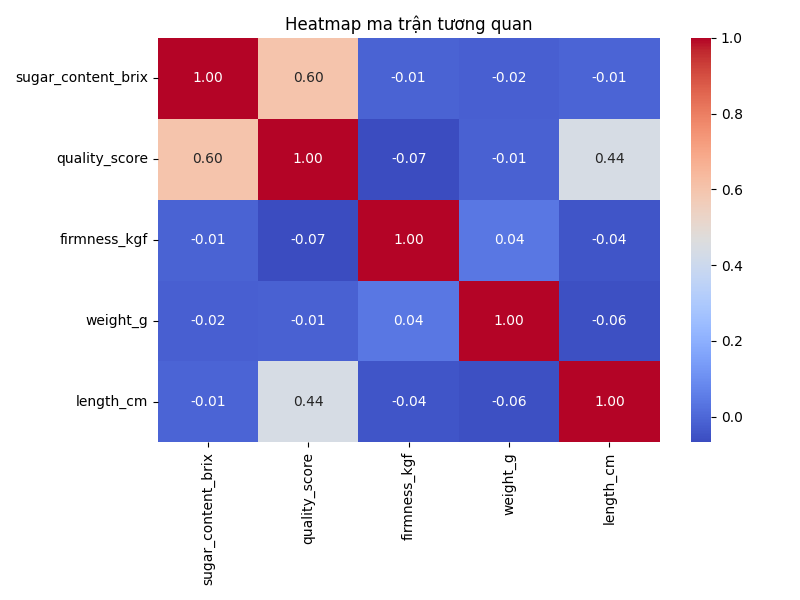
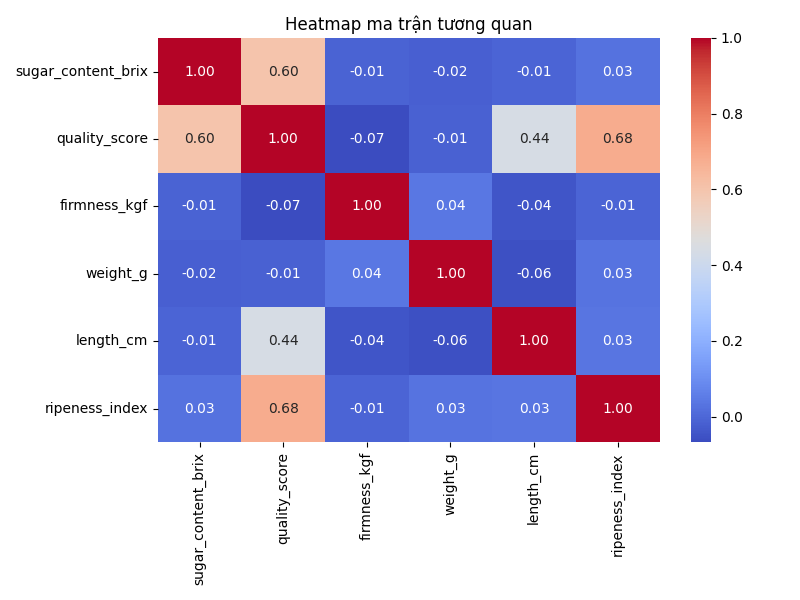
Preserve extended analysis and visualization outputs

diff --git a/src/03_visualization.py b/src/03_visualization.py
@@ -2,31 +2,16 @@ import pandas as pd
 import os
 import matplotlib.pyplot as plt
 import seaborn as sns
-
-# =========================
-# PHẦN 3: TRỰC QUAN HÓA DỮ LIỆU
-# =========================
-
-# Lấy đường dẫn thư mục src
 BASE_DIR = os.path.dirname(os.path.abspath(__file__))
-
-# Đường dẫn file dữ liệu
 DATA_PATH = os.path.join(
     BASE_DIR,
     "..",
     "data",
     "banana_quality_dataset.csv"
 )
-
-# =========================
-# THƯ MỤC OUTPUT PNG
-# =========================
 PNG_DIR = os.path.join(BASE_DIR, "..", "output", "png")
 os.makedirs(PNG_DIR, exist_ok=True)
-
-# Đọc dữ liệu
 df = pd.read_csv(DATA_PATH)
-
 # =========================
 # 3.1 Phân bố độ ngọt
 # =========================
@@ -38,7 +23,6 @@ plt.ylabel("Tần suất")
 plt.tight_layout()
 plt.savefig(os.path.join(PNG_DIR, "hist_sugar_content.png"))
 plt.show()
-
 # =========================
 # 3.2 Phân bố quality score
 # =========================
@@ -50,7 +34,6 @@ plt.ylabel("Tần suất")
 plt.tight_layout()
 plt.savefig(os.path.join(PNG_DIR, "hist_quality_score.png"))
 plt.show()
-
 # =========================
 # 3.3 Scatter: Sugar vs Quality
 # =========================
@@ -66,7 +49,6 @@ plt.ylabel("Quality Score")
 plt.tight_layout()
 plt.savefig(os.path.join(PNG_DIR, "scatter_sugar_quality.png"))
 plt.show()
-
 # =========================
 # 3.4 Scatter: Firmness vs Quality
 # =========================
@@ -81,4 +63,82 @@ plt.xlabel("Firmness (kgf)")
 plt.ylabel("Quality Score")
 plt.tight_layout()
 plt.savefig(os.path.join(PNG_DIR, "scatter_firmness_quality.png"))
+plt.show()
+# =========================
+# 3.5 DASHBOARD: Weight - Length - Firmness
+# ========================= 
+fig, axes = plt.subplots(2, 2, figsize=(10, 8))
+# Histogram Weight
+sns.histplot(df["weight_g"], kde=True, ax=axes[0, 0])
+axes[0, 0].set_title("Phân bố trọng lượng chuối")
+axes[0, 0].set_xlabel("Weight (g)")
+# Histogram Length
+sns.histplot(df["length_cm"], kde=True, ax=axes[0, 1])
+axes[0, 1].set_title("Phân bố chiều dài chuối")
+axes[0, 1].set_xlabel("Length (cm)")
+# Histogram Firmness
+sns.histplot(df["firmness_kgf"], kde=True, ax=axes[1, 0])
+axes[1, 0].set_title("Phân bố độ cứng chuối")
+axes[1, 0].set_xlabel("Firmness (kgf)")
+# Scatter Length vs Weight
+sns.scatterplot(
+    x="length_cm",
+    y="weight_g",
+    data=df,
+    ax=axes[1, 1]
+)
+axes[1, 1].set_title("Length vs Weight")
+plt.tight_layout()
+plt.savefig(os.path.join(PNG_DIR, "dashboard_physical_features.png"))
+plt.show()
+# =========================
+# 3.6 DASHBOARD RIPENESS INDEX
+# =========================
+fig, axes = plt.subplots(1, 2, figsize=(10, 4))
+# Histogram Ripeness
+sns.histplot(df["ripeness_index"], kde=True, ax=axes[0])
+axes[0].set_title("Phân bố độ chín của chuối")
+axes[0].set_xlabel("Ripeness Index")
+axes[0].set_ylabel("Tần suất")
+# Ripeness vs Quality
+sns.scatterplot(
+    x="ripeness_index",
+    y="quality_score",
+    data=df,
+    ax=axes[1]
+)
+axes[1].set_title("Ripeness vs Quality Score")
+axes[1].set_xlabel("Ripeness Index")
+axes[1].set_ylabel("Quality Score")
+plt.tight_layout()
+plt.savefig(os.path.join(PNG_DIR, "dashboard_ripeness.png"))
+plt.show()
+# =========================
+# 3.7 DASHBOARD: PHYSICAL FEATURES vs QUALITY
+# =========================
+fig, axes = plt.subplots(1, 2, figsize=(10, 4))
+# Length vs Quality
+sns.scatterplot(
+    x="length_cm",
+    y="quality_score",
+    data=df,
+    ax=axes[0]
+)
+axes[0].set_title("Length vs Quality Score")
+axes[0].set_xlabel("Length (cm)")
+axes[0].set_ylabel("Quality Score")
+# Weight vs Quality
+sns.scatterplot(
+    x="weight_g",
+    y="quality_score",
+    data=df,
+    ax=axes[1]
+)
+axes[1].set_title("Weight vs Quality Score")
+axes[1].set_xlabel("Weight (g)")
+axes[1].set_ylabel("Quality Score")
+plt.tight_layout()
+plt.savefig(
+    os.path.join(PNG_DIR, "dashboard_physical_quality.png")
+)
 plt.show()

diff --git a/src/04_correlation.py b/src/04_correlation.py
@@ -2,46 +2,31 @@ import pandas as pd
 import os
 import matplotlib.pyplot as plt
 import seaborn as sns
-
-# =========================
-# PHẦN 4: PHÂN TÍCH TƯƠNG QUAN
-# =========================
-
-# Lấy đường dẫn thư mục src
 BASE_DIR = os.path.dirname(os.path.abspath(__file__))
-
-# Đường dẫn dữ liệu
 DATA_PATH = os.path.join(
     BASE_DIR,
     "..",
     "data",
     "banana_quality_dataset.csv"
 )
-
-# =========================
-# THƯ MỤC OUTPUT
-# =========================
 CSV_DIR = os.path.join(BASE_DIR, "..", "output", "csv")
 PNG_DIR = os.path.join(BASE_DIR, "..", "output", "png")
 os.makedirs(CSV_DIR, exist_ok=True)
 os.makedirs(PNG_DIR, exist_ok=True)
-
-# Đọc dữ liệu
 df = pd.read_csv(DATA_PATH)
-
-# Các biến số cần phân tích
 numeric_cols = [
     "sugar_content_brix",
     "quality_score",
     "firmness_kgf",
     "weight_g",
-    "length_cm"
+    "length_cm",
+    "ripeness_index"
 ]
 
 # =========================
 # 4.1 Ma trận tương quan
 # =========================
-corr_matrix = df[numeric_cols].corr()
+corr_matrix = df[numeric_cols].corr() 
 
 print("\n=== MA TRẬN TƯƠNG QUAN ===")
 print(corr_matrix)
@@ -74,4 +59,12 @@ plt.show()
 r = df["sugar_content_brix"].corr(df["quality_score"])
 print(
     f"\nHệ số tương quan Pearson giữa độ ngọt và chất lượng: r = {r:.3f}"
+)
+# =========================
+# 4.4 Phân tích Ripeness – Quality
+# =========================
+r_ripeness = df["ripeness_index"].corr(df["quality_score"])
+
+print(
+    f"Hệ số tương quan Pearson giữa độ chín và chất lượng: r = {r_ripeness:.3f}"
 )

diff --git a/src/02_descriptive.py b/src/02_descriptive.py
@@ -1,45 +1,27 @@
 import pandas as pd
 import os
-
-# =========================
-# PHẦN 2: THỐNG KÊ MÔ TẢ
-# =========================
-
-# Lấy đường dẫn thư mục src
 BASE_DIR = os.path.dirname(os.path.abspath(__file__))
-
-# Đường dẫn file dữ liệu
 DATA_PATH = os.path.join(
     BASE_DIR,
     "..",
     "data",
     "banana_quality_dataset.csv"
 )
-
-# Đọc dữ liệu
 df = pd.read_csv(DATA_PATH)
-
-# Chọn các biến số quan trọng
 numeric_cols = [
     "sugar_content_brix",
     "quality_score",
     "firmness_kgf",
     "weight_g",
-    "length_cm"
+    "length_cm",
+    "ripeness_index"
 ]
-
 df_numeric = df[numeric_cols]
-
-# Thống kê mô tả
 desc = df_numeric.describe()
-
 print("\n=== THỐNG KÊ MÔ TẢ ===")
 print(desc)
-
-# Lưu kết quả ra file(csv)
 CSV_DIR = os.path.join(BASE_DIR, "..", "output", "csv")
 os.makedirs(CSV_DIR, exist_ok=True)
-
 OUTPUT_PATH = os.path.join(
     CSV_DIR,
     "thong_ke_mo_ta.csv"

diff --git a/src/05_regression_simple.py b/src/05_regression_simple.py
@@ -74,3 +74,39 @@ plt.savefig(
     os.path.join(PNG_DIR, "hoi_quy_sugar_quality.png")
 )
 plt.show()
+# =========================
+# 5.6 HỒI QUY: RIPENESS vs QUALITY
+# =========================
+
+X2 = df[["ripeness_index"]]
+y2 = df["quality_score"]
+
+model2 = LinearRegression()
+model2.fit(X2, y2)
+
+y2_pred = model2.predict(X2)
+
+a2 = model2.coef_[0]
+b2 = model2.intercept_
+
+r2_2 = r2_score(y2, y2_pred)
+
+print("\n=== HỒI QUY RIPENESS → QUALITY ===")
+print(f"Phương trình: quality_score = {a2:.3f} * ripeness_index + {b2:.3f}")
+print(f"Hệ số R² = {r2_2:.3f}")
+
+plt.figure(figsize=(8,6))
+plt.scatter(X2, y2, alpha=0.5)
+plt.plot(X2, y2_pred, color="red")
+
+plt.xlabel("Ripeness Index")
+plt.ylabel("Quality Score")
+plt.title("Hồi quy tuyến tính giữa độ chín và chất lượng chuối")
+
+plt.tight_layout()
+
+plt.savefig(
+    os.path.join(PNG_DIR, "hoi_quy_ripeness_quality.png")
+)
+
+plt.show()
